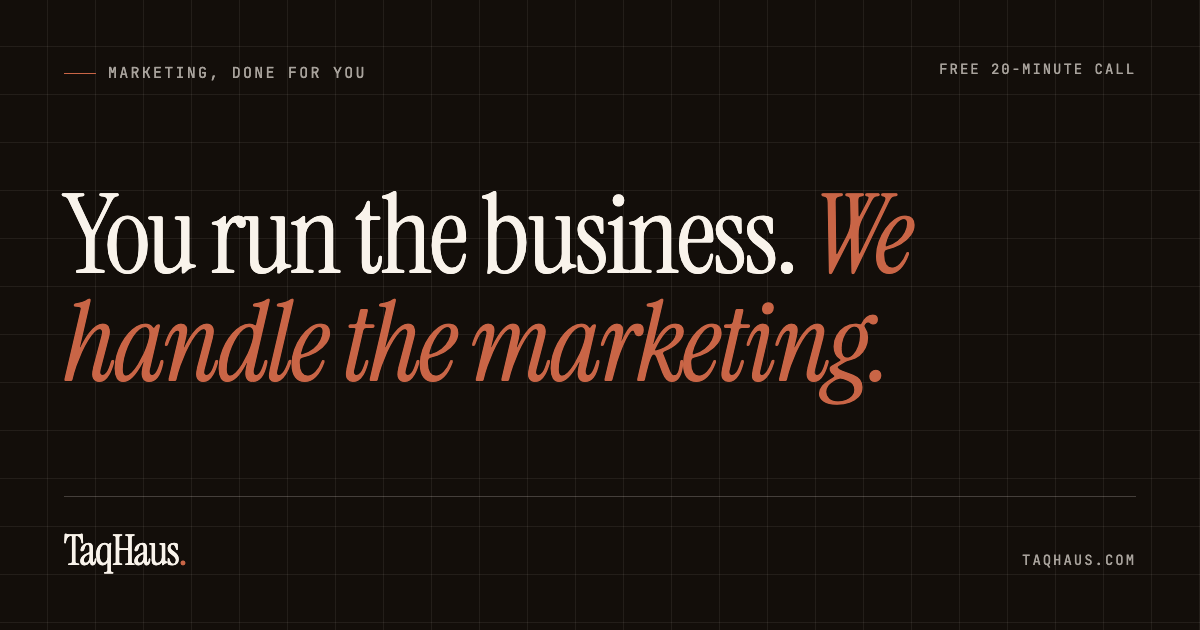
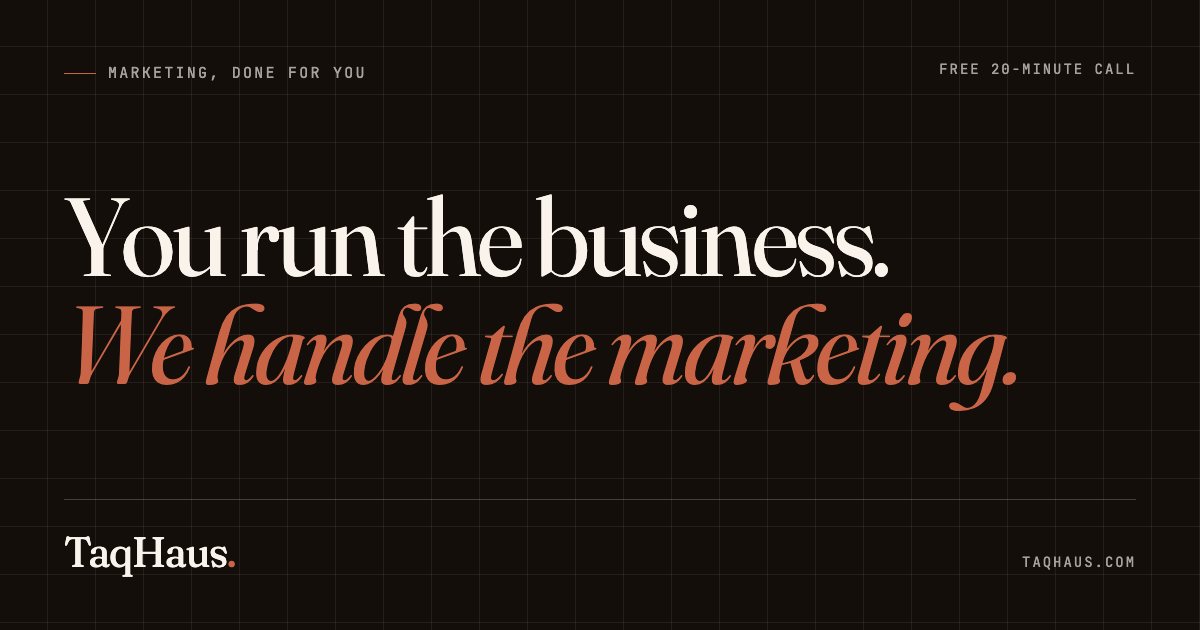
feat: Fraunces typography, ink marquee band, honey-tinted section
- Display serif swapped from Instrument Serif to Fraunces (wonky old
  style, optical sizing, WONK axis on for display elements); body sans
  swapped from Geist to Hanken Grotesk; tokens changed sitewide
- Logo marquee flipped to an ink band with paper logo chips, a hard
  black break between hero and pains section
- How It Works section sits on marigold-tinted paper, giving the
  scroll a cream, honey, ink, gold colour journey
- OG card set regenerated in Fraunces

diff --git a/src/styles/taqhaus-editorial.css b/src/styles/taqhaus-editorial.css
@@ -19,8 +19,8 @@
   --teal: oklch(0.58 0.1 175);
   --teal-deep: oklch(0.45 0.09 178);
   --cobalt: oklch(0.52 0.17 262);
-  --serif: "Instrument Serif", "Cormorant Garamond", Georgia, serif;
-  --sans: "Geist", "Inter Tight", -apple-system, BlinkMacSystemFont, "Segoe UI", sans-serif;
+  --serif: "Fraunces", "Instrument Serif", Georgia, serif;
+  --sans: "Hanken Grotesk", "Geist", -apple-system, BlinkMacSystemFont, "Segoe UI", sans-serif;
   --mono: "JetBrains Mono", "IBM Plex Mono", ui-monospace, Menlo, monospace;
   --gutter: clamp(20px, 4vw, 56px);
   --maxw: 1440px;
@@ -2482,6 +2482,37 @@
 .tq-editorial .marquee-item .star.s2 { color: var(--teal-deep); }
 .tq-editorial .marquee-item .star.s3 { color: var(--cobalt); }
 .tq-editorial .marquee-item .star.s4 { color: var(--marigold-deep); }
+
+/* Typography v2 — Fraunces character settings */
+.tq-editorial :is(h1, h2, h3, h4, .quote, .ca-mark, .ca-stat-big, .display-md, .display-lg, .display-xl, .bridge, .wordmark, .footer-mark, .hero-strip .stat) {
+  font-variation-settings: "SOFT" 0, "WONK" 1;
+  font-optical-sizing: auto;
+}
+
+/* Marquee — ink band with paper logo chips */
+.tq-editorial .marquee--ink {
+  background: var(--ink);
+  border-top-color: color-mix(in oklch, var(--paper) 14%, transparent);
+  border-bottom-color: color-mix(in oklch, var(--paper) 14%, transparent);
+  padding: 16px 0;
+}
+.tq-editorial .marquee--ink .marquee-logo {
+  background: var(--paper);
+  padding: 7px 12px;
+  border-radius: 8px;
+  height: 42px;
+  opacity: 0.92;
+  filter: grayscale(100%);
+}
+.tq-editorial .marquee--ink .marquee-item:hover .marquee-logo {
+  opacity: 1;
+  filter: grayscale(20%);
+}
+
+/* Tinted section — the colour beat between cream and ink */
+.tq-editorial .section-gold-tint {
+  background: color-mix(in oklch, var(--marigold) 16%, var(--paper));
+}
 
 /* Hero v6 — single column, full-width type, ambient background */
 .tq-editorial .hero::before {

diff --git a/src/pages/LandingPageRedesign.tsx b/src/pages/LandingPageRedesign.tsx
@@ -205,7 +205,7 @@ export default function LandingPageRedesign() {
       </section>
 
       {/* ── Marquee — logo trust strip ───────────────────────────────────────── */}
-      <div className="marquee" aria-label="Clients & partners">
+      <div className="marquee marquee--ink" aria-label="Clients & partners">
         <div className="marquee-track">
           {[...marqueeLogos, ...marqueeLogos].map((logo, i) => (
             <span key={i} className="marquee-item">
@@ -274,7 +274,7 @@ export default function LandingPageRedesign() {
       </section>
 
       {/* ── How it works ─────────────────────────────────────────────────────── */}
-      <section>
+      <section className="section-gold-tint">
         <div className="wrap">
           <motion.div className="section-head" {...rv()}>
             <div className="sh-meta">

diff --git a/index.html b/index.html
@@ -10,7 +10,7 @@
   <link rel="preconnect" href="https://fonts.googleapis.com" />
   <link rel="preconnect" href="https://fonts.gstatic.com" crossorigin />
   <link
-    href="https://fonts.googleapis.com/css2?family=Noto+Serif:ital,wght@0,300;0,400;0,700;1,300&family=Plus+Jakarta+Sans:wght@300;400;500;600;700&family=Inter:wght@300;400;500;600;700&family=Instrument+Serif:ital@0;1&family=Geist:wght@300;400;500;600&family=JetBrains+Mono:wght@400;500&display=swap"
+    href="https://fonts.googleapis.com/css2?family=Noto+Serif:ital,wght@0,300;0,400;0,700;1,300&family=Plus+Jakarta+Sans:wght@300;400;500;600;700&family=Inter:wght@300;400;500;600;700&family=Fraunces:ital,opsz,wght@0,9..144,300..700;1,9..144,300..700&family=Hanken+Grotesk:ital,wght@0,300..700;1,400&family=JetBrains+Mono:wght@400;500&display=swap"
     rel="stylesheet" />
   <!-- Material Symbols -->
   <link href="https://fonts.googleapis.com/css2?family=Material+Symbols+Outlined:wght,FILL@100..700,0..1&display=swap"
